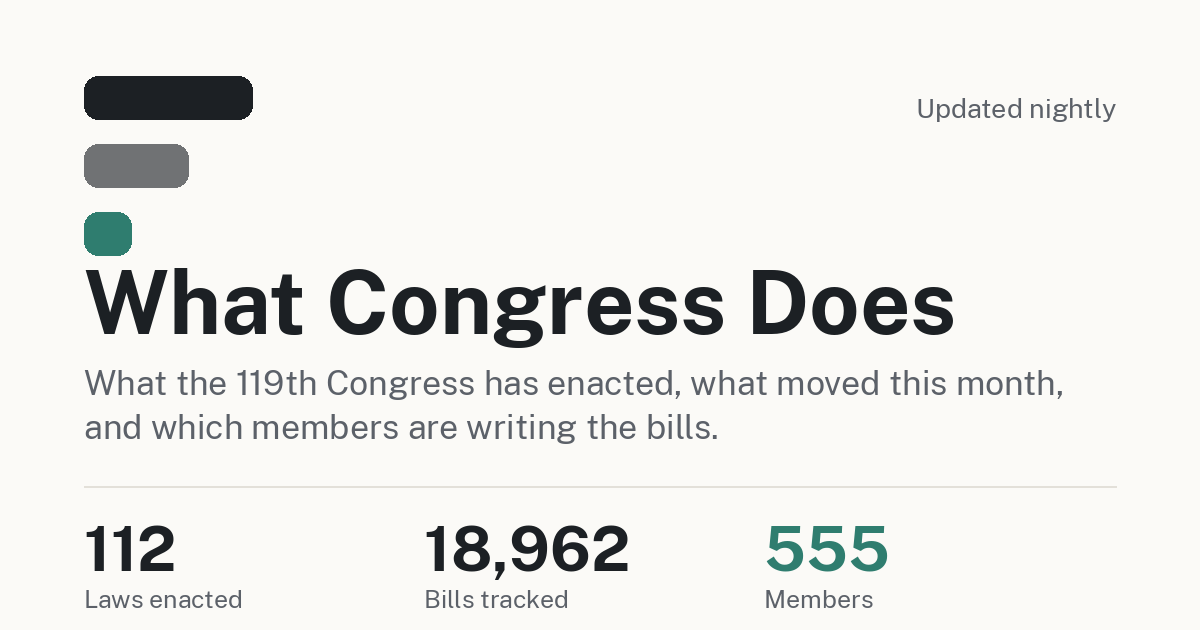
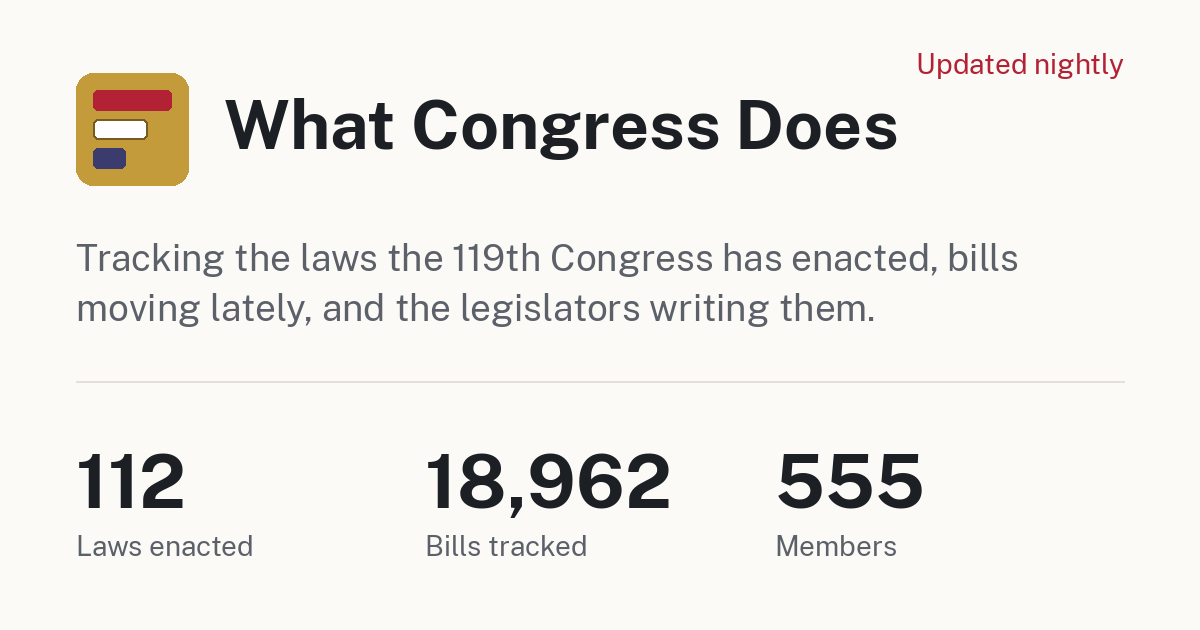
Updated og-image and meta description

diff --git a/index.html b/index.html
@@ -4,21 +4,21 @@
 <meta charset="utf-8">
 <meta name="viewport" content="width=device-width, initial-scale=1">
 <title>What Congress Does</title>
-<meta name="description" content="What the 119th Congress has enacted, what moved this month, and which members are writing the bills. Updated nightly from the Library of Congress.">
+<meta name="description" content="Tracking the laws the 119th Congress has enacted, bills moving lately, and the legislators writing them.">
 <link rel="icon" href="favicon.svg" type="image/svg+xml">
 <link rel="apple-touch-icon" href="icon-180.png">
 <meta name="theme-color" content="#FBFAF7">
 <meta property="og:site_name" content="What Congress Does">
 <meta property="og:type" content="website">
 <meta property="og:title" content="What Congress Does">
-<meta property="og:description" content="What the 119th Congress has enacted, what moved this month, and which members are writing the bills. Updated nightly from the Library of Congress.">
-<meta property="og:image" content="https://congress-leaderboard.vercel.app/og-image.png">
+<meta property="og:description" content="Tracking the laws the 119th Congress has enacted, bills moving lately, and the legislators writing them.">
+<meta property="og:image" content="https://what-congress-does.vercel.app/og-image.png">
 <meta property="og:image:width" content="1200">
 <meta property="og:image:height" content="630">
 <meta name="twitter:card" content="summary_large_image">
 <meta name="twitter:title" content="What Congress Does">
-<meta name="twitter:description" content="What the 119th Congress has enacted, what moved this month, and which members are writing the bills. Updated nightly from the Library of Congress.">
-<meta name="twitter:image" content="https://congress-leaderboard.vercel.app/og-image.png">
+<meta name="twitter:description" content="Tracking the laws the 119th Congress has enacted, bills moving lately, and the legislators writing them.">
+<meta name="twitter:image" content="https://what-congress-does.vercel.app/og-image.png">
 <link rel="preconnect" href="https://fonts.googleapis.com">
 <link rel="preconnect" href="https://fonts.gstatic.com" crossorigin>
 <link href="https://fonts.googleapis.com/css2?family=Public+Sans:ital,wght@0,300..800;1,400&display=swap" rel="stylesheet">
